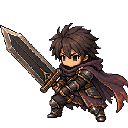
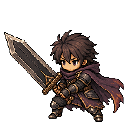
fix: keep character 246 poses within frame

Changed region(s): [[0.0, 0.1562, 1.0, 0.9688]]

diff --git a/config/admin_update_summaries.php b/config/admin_update_summaries.php
@@ -9,6 +9,13 @@ return [
         'detail' => 'キャラクターアイコン変更画面で、多数の画像を一度に読み込まず、表示する範囲に合わせて順次読み込むようにしました。スマートフォンでも一覧の画像が欠けにくくなります。',
     ],
     [
+        'id' => '2026-08-28-standard-character-pose-padding-fix',
+        'date' => '2026-08-28',
+        'category' => 'fixed',
+        'title' => '一部キャラ画像の表示範囲を調整',
+        'detail' => '一部の通常キャラ画像で武器が表示枠に接していたため、4ポーズすべてに余白を確保して全身が収まるよう調整しました。',
+    ],
+    [
         'id' => '2026-08-28-town-update-long-detail-collapse',
         'date' => '2026-08-28',
         'category' => 'changed',

diff --git a/docs/UPDATE_LOG.md b/docs/UPDATE_LOG.md
@@ -32,6 +32,8 @@ Do not record tiny refactors, formatting-only changes, or AI docs-only edits.
 
 - キャラクターアイコン変更画面で、多数の画像を一度に読み込まず、表示する範囲に合わせて順次読み込むようにしました。スマートフォンでも一覧の画像が欠けにくくなります。
 
+- 一部の通常キャラ画像で武器が表示枠に接していたため、4ポーズすべてに透過余白を確保して全身が収まるよう調整しました。
+
 - 街ヘッダーの見出しを「直近5分の全冒険者」に変更し、対象の人数と名前を全員分表示するよう修正しました。21人以上でも人数や名前が20人で止まることはありません。
 
 - 国家TOPで同じ3国だけが継続表示される状態を改め、全国家から日替わりで3国を紹介するようにしました。「全国家を見る」から、紹介枠以外の国家もいつでも確認できます。
